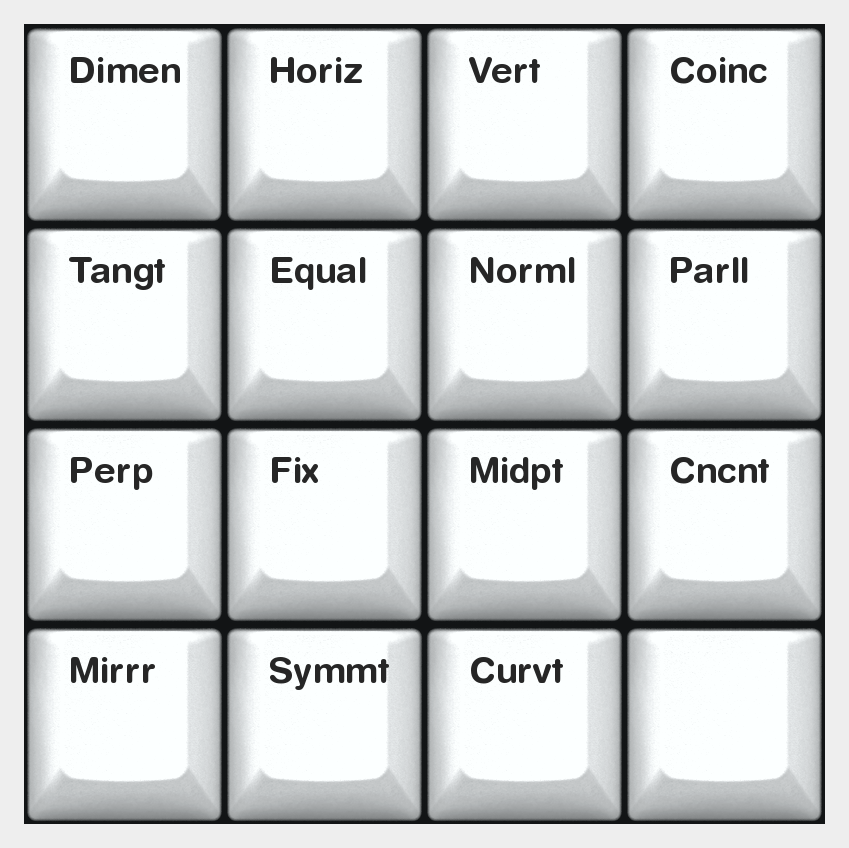
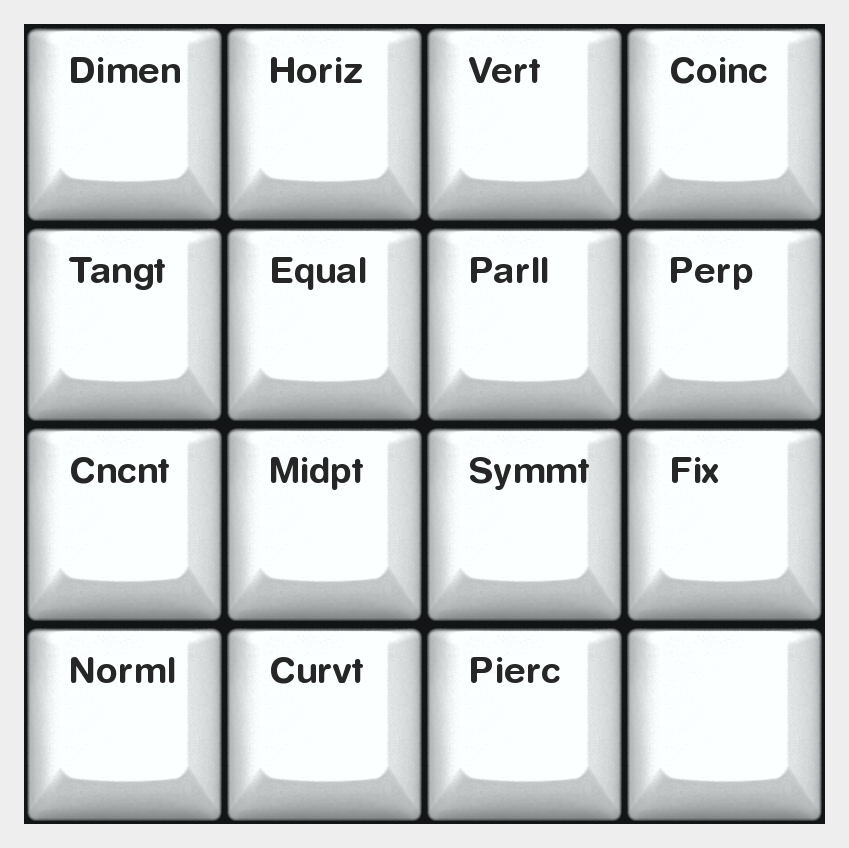
Remap OnShape constraint keys, clear features, update README/images

diff --git a/README.md b/README.md
@@ -56,10 +56,10 @@ Key positions:
 - **Battery voltage**: Types a voltage readout.
 - **Bootloader**: Enters bootloader mode.
 
-**OnShape sublayers (accessed from Layer 10)**
+**OnShape sub layers (accessed from Layer 10)**
 
-- **Layer 18**: OnShape Constraints (hold Enter)
-- **Layer 19**: OnShape Features (hold Esc)
+- **Layer 18**: OnShape Constraints (hold Enter). Shortcuts: D, H, V, I, T, E, B, Shift + L, Shift + O, Shift + M, Shift + Q, Shift + J, Shift + K, Shift + U, Shift + G.
+- **Layer 19**: OnShape Features (hold Escape). Shortcuts: Shift + E (Extrude), Shift + W (Revolve), Shift + F (Fillet). Remaining keys are empty.
 ## Customize
 
 Edit `config/stavropad.keymap`.
